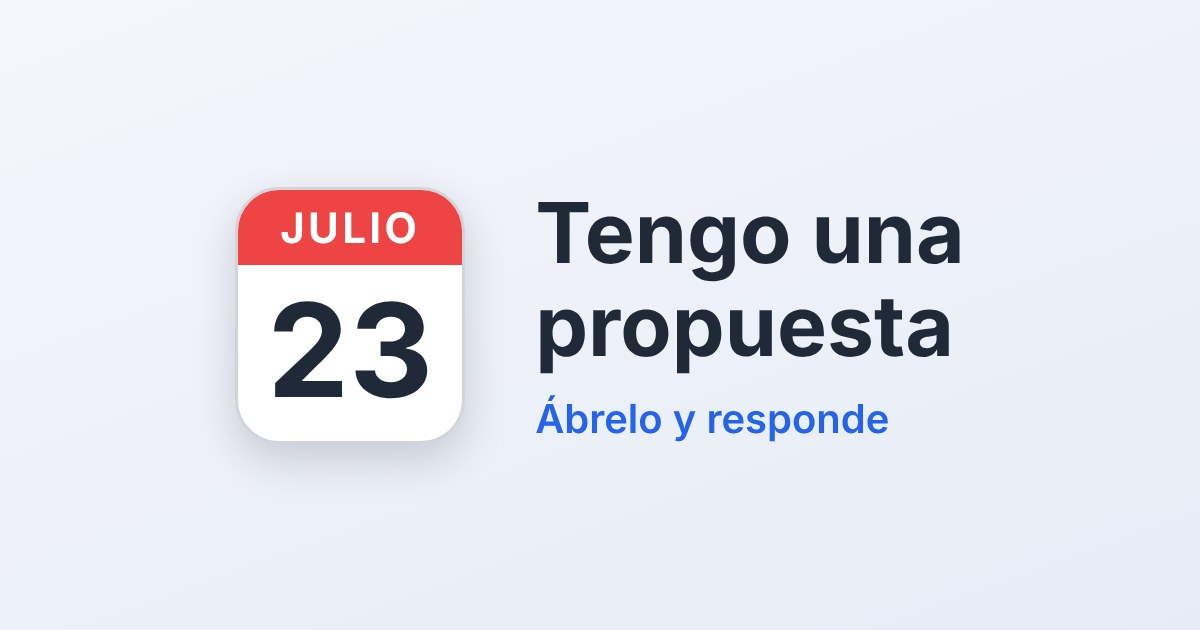
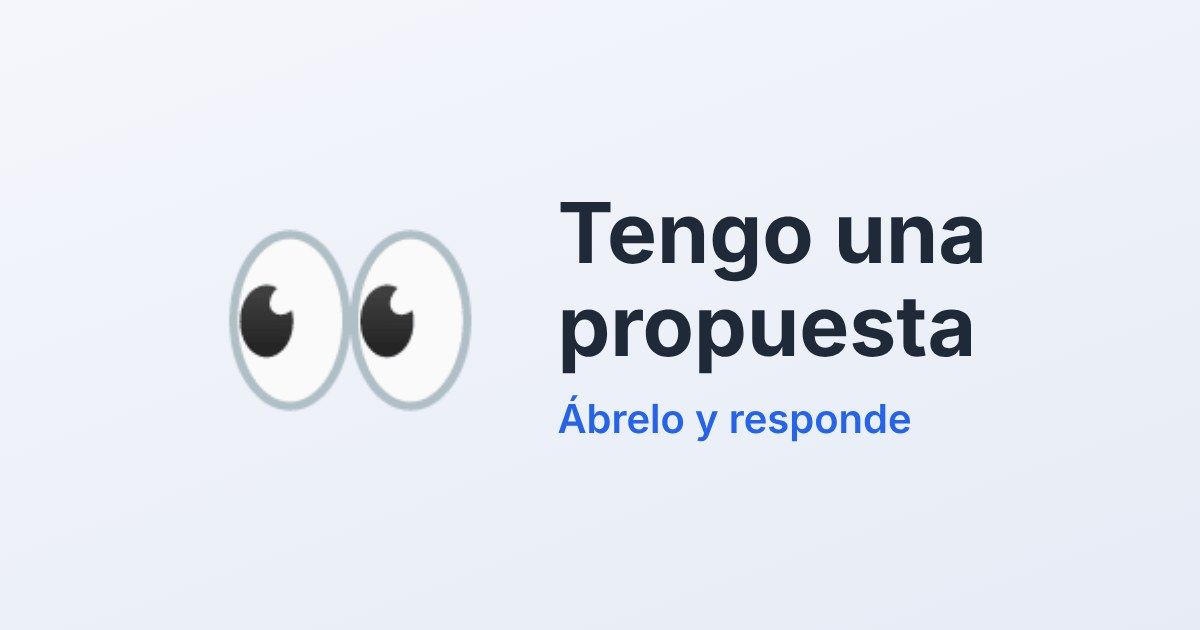
Replace calendar with animated eyes on first screen and in link preview
Claude-Session: https://claude.ai/code/session_015DskXw8uCFmN3jrNQhDym8

diff --git a/index.html b/index.html
@@ -52,30 +52,13 @@
 
     .emoji { font-size: 64px; margin-bottom: 12px; }
 
-    /* Icono de calendario con fecha propia (el emoji 📅 no se puede cambiar) */
-    .calendario {
-      width: 56px;
-      margin-bottom: 14px;
-      border-radius: 11px;
-      overflow: hidden;
-      background: #fff;
-      box-shadow: 0 4px 12px rgba(31, 41, 55, .18);
-      border: 1px solid #d1d5db;
-    }
-    .cal-mes {
-      background: #ef4444;
-      color: #fff;
-      font-size: 10px;
-      font-weight: 700;
-      letter-spacing: .08em;
-      padding: 3px 0;
-    }
-    .cal-dia {
-      font-size: 29px;
-      font-weight: 700;
-      line-height: 1;
-      padding: 5px 0 6px;
-      color: #1f2937;
+    /* Ojos que miran a un lado y a otro */
+    .mirar { display: inline-block; animation: mirar 4s ease-in-out infinite; }
+    @keyframes mirar {
+      0%, 25%   { transform: translateX(0); }
+      32%, 45%  { transform: translateX(-10px) rotate(-4deg); }
+      52%, 65%  { transform: translateX(10px) rotate(4deg); }
+      72%, 100% { transform: translateX(0); }
     }
 
     h1 {
@@ -393,10 +376,7 @@
 
   <!-- Pantalla 1: la pregunta -->
   <section class="pantalla activa" id="p-pregunta">
-    <div class="calendario" aria-label="23 de julio">
-      <div class="cal-mes">JULIO</div>
-      <div class="cal-dia">23</div>
-    </div>
+    <div class="emoji"><span class="mirar">👀</span></div>
     <h1>¿Hacemos un plan?</h1>
     <div class="botones" id="botones">
       <button id="btn-si">SÍ</button>
